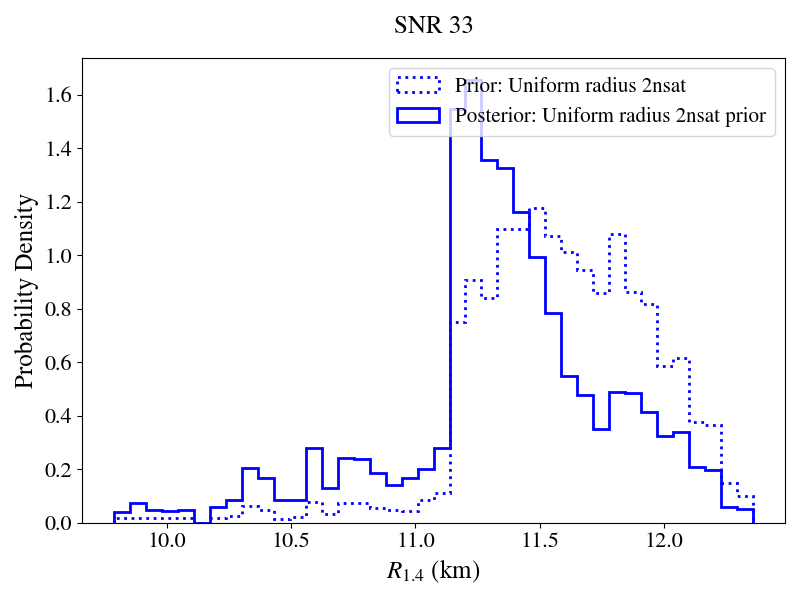
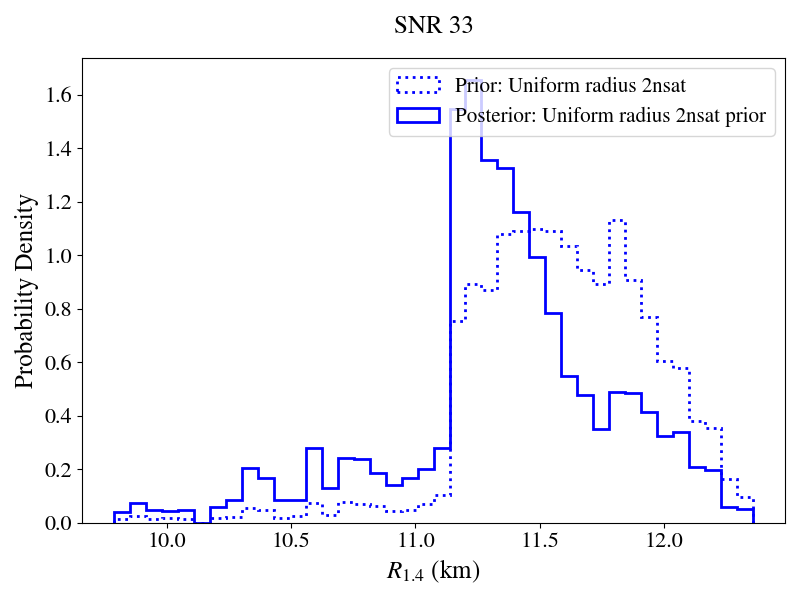
adding cs5 prior&posterior plots

diff --git a/pycbc_runs/scripts/plot_prior_post.py b/pycbc_runs/scripts/plot_prior_post.py
@@ -69,7 +69,7 @@ for (e,), (m1, m2) in zip(dist_eos.rvs(size=1000000), dist_m.rvs(size=1000000)):
 
     e = int(e)
 
-    MRLname = 'cs3MRL/'
+    MRLname = 'cs5MRL/'
 
     tov_file = '/global/cscratch1/sd/bkingast/EOS_inference/EOS/LANL_Project_eos/' + MRLname + str(e) + '.dat'
     data = numpy.loadtxt(tov_file)
@@ -105,7 +105,7 @@ from pycbc.conversions import lambda_tilde
 labels = ['lambda1', 'lambda2', 'lambda_tilde', 'mass1', 'mass2', 'radius', 'mchirp', 'eos']
 samples_post_rec2nsat = {l: [] for l in labels}
 
-fp=loadfile('/global/cscratch1/sd/bkingast/LANL_project/pycbc_runs/data/cs3_0829_ind.hdf','r+')
+fp=loadfile('/global/cscratch1/sd/bkingast/LANL_project/pycbc_runs/data/cs5_0829_ind.hdf','r+')
 
 #parameters = fp['samples'].keys()
 #samples = fp.read_samples(parameters, flatten=True)
@@ -155,7 +155,7 @@ plt.ylabel(r"Probability Density", fontsize=18)
 plt.legend(fontsize=15)
 plt.title('SNR 33', fontsize=18, pad=18)
 plt.tight_layout()
-plt.savefig("prior_post_cs3.png")
+plt.savefig("../plots/lambda_prior_post_cs5.png")
 
 # plot lambda_tilde priors and posterior
 fig, ax = plt.subplots(1, 1, figsize=(8, 6))
@@ -180,4 +180,4 @@ plt.ylabel(r"Probability Density", fontsize=18)
 plt.legend(fontsize=15)
 plt.title('SNR 33', fontsize=18, pad=18)
 plt.tight_layout()
-plt.savefig("r1p4_prior_post_cs3.png")
+plt.savefig("../plots/r1p4_prior_post_cs5.png")
